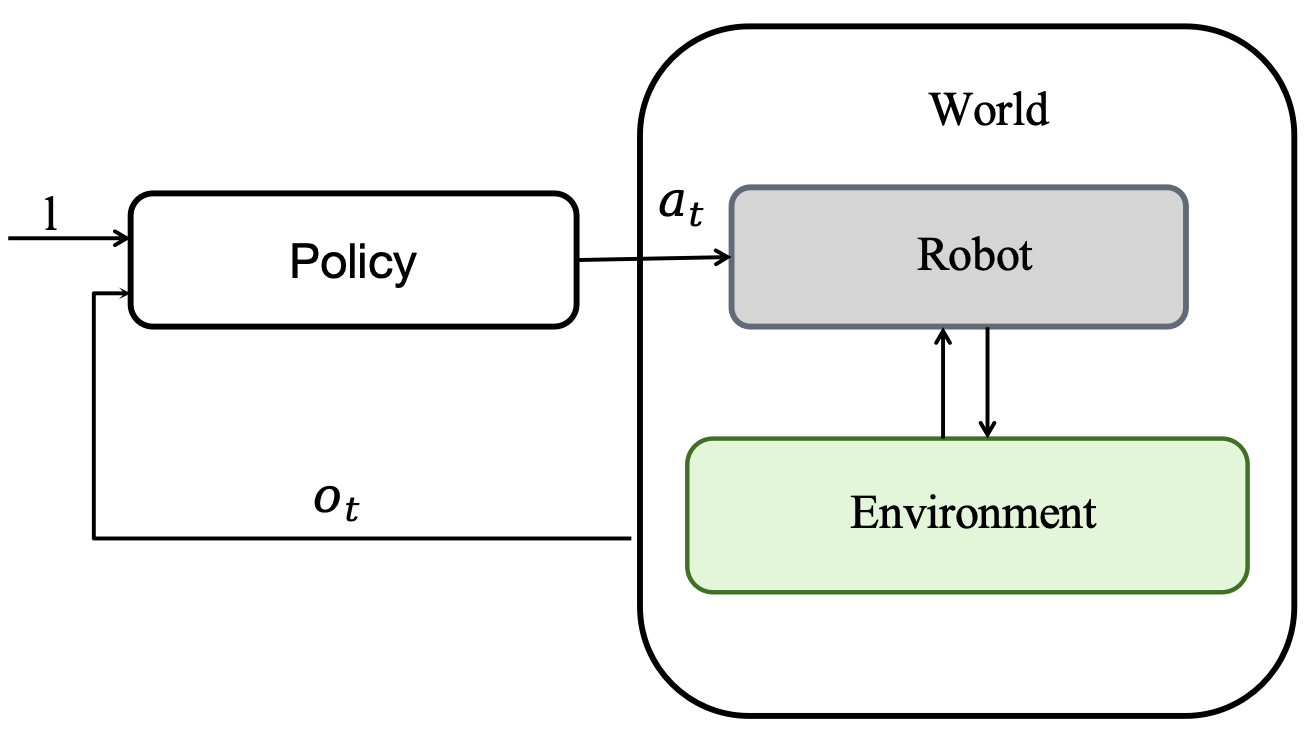
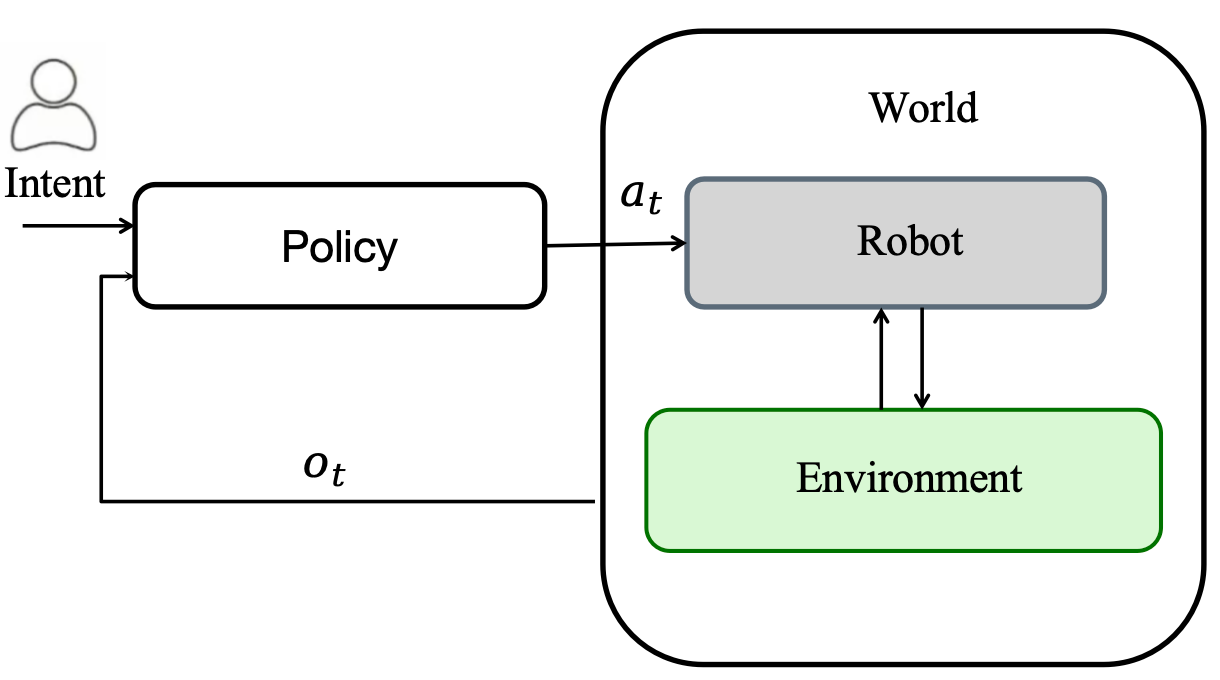
update website from overleaf figures (#36)

diff --git a/website/index.html b/website/index.html
@@ -6,9 +6,9 @@
     <title>From World Models to World Action Models: A Concise Tutorial for Robotics</title>
     <meta
       name="description"
-      content="A concise tutorial on world models and world action models for embodied AI and robotics."
+      content="A concise tutorial on world models and world action models for physical AI and robotics."
     >
-    <link rel="stylesheet" href="styles.css?v=20260706-4">
+    <link rel="stylesheet" href="styles.css?v=20260725">
   </head>
   <body>
     <header class="site-header">
@@ -33,12 +33,12 @@
           <p class="eyebrow">Survey and tutorial map</p>
           <div class="hero-title-block">
             <h1 id="hero-title">From World Models to World Action Models: A Concise Tutorial for Robotics</h1>
-            <p class="edited-date">Edited: July 13, 2026</p>
+            <p class="edited-date">Edited: July 25, 2026</p>
           </div>
           <p class="subtitle">
             A concise tutorial that builds from task-specific worlds and
-            embodied policies to predictive world models—and finally to models
-            that connect imagined futures with executable robot actions.
+            physical AI policies to predictive world models—and finally to
+            models that couple imagined futures with executable robot actions.
           </p>
           <div class="authors" aria-label="Authors and affiliations">
             <p>
@@ -61,10 +61,10 @@
           <h2 id="introduction-title">📘 Introduction</h2>
           <p>
             Predicting how the world evolves under actions is central to
-            embodied AI and generative simulation. A unified architecture makes
+            physical AI and generative simulation. A unified architecture makes
             clear what a model represents, what it predicts, and how its
-            predictions support control, planning, decision making, and policy
-            learning.
+            predictions support controller design, planning, decision making,
+            and policy learning.
           </p>
         </div>
 
@@ -75,16 +75,16 @@
               <div>
                 <h3>World</h3>
                 <p>
-                  The <em>world</em> is the set of all objects relevant to an
-                  embodied AI task. It consists of a <em>robot</em> and its
-                  <em>environment</em>; the environment contains both the
+                  The <em>world</em> is the set of task-relevant entities,
+                  including both the <em>robot</em> and its
+                  <em>environment</em>. The environment contains the
                   <em>objects of interest</em> and the ambient environment.
                 </p>
               </div>
             </div>
             <figure class="introduction-figure compact">
-              <a href="assets/world.pdf?v=20260713" aria-label="Open the components of a world figure as a PDF">
-                <img src="assets/world.png?v=20260713" alt="A world consists of a robot and an environment containing objects of interest and the ambient environment.">
+              <a href="assets/world.pdf?v=20260725" aria-label="Open the components of a world figure as a PDF">
+                <img src="assets/world.png?v=20260725" alt="A world consists of a robot and an environment containing objects of interest and the ambient environment.">
               </a>
               <figcaption>Figure 1. Components of a task-specific world.</figcaption>
             </figure>
@@ -94,43 +94,44 @@
             <div class="introduction-copy">
               <span class="step-number">02</span>
               <div>
-                <h3>Embodied AI Task and Policy</h3>
+                <h3>Physical AI Task and Policy</h3>
                 <p>
-                  A <em>world configuration</em> describes the robot and every
-                  object in its environment. An embodied AI task asks a policy
-                  to transform an initial configuration into a target one by
-                  controlling the robot. The exact world is therefore
-                  task-dependent.
+                  The <em>world state</em> is the joint task-relevant state of
+                  the robot, objects, other agents, and surrounding
+                  environment. A physical AI task asks a policy to drive the
+                  world from an initial state toward a goal set while satisfying
+                  task-specific constraints.
                 </p>
                 <p>
-                  Humanoid locomotion needs a robot and ground surface; robotic
-                  table cleaning additionally includes dishes, furniture, and
-                  the surrounding household environment.
+                  Autonomous driving includes the vehicle, traffic
+                  participants, and road environment; robotic table-cleaning
+                  includes the robot, dishes, rag, table, and household
+                  surroundings.
                 </p>
               </div>
             </div>
             <figure class="introduction-figure">
-              <a href="assets/two_tasks.pdf?v=20260713" aria-label="Open embodied AI task examples as a PDF">
-                <img src="assets/two_tasks.png?v=20260713" alt="Humanoid locomotion and robotic table-cleaning as two examples of task-specific worlds.">
+              <a href="assets/two_tasks.pdf?v=20260725" aria-label="Open physical AI task examples as a PDF">
+                <img src="assets/two_tasks.png?v=20260725" alt="Autonomous driving and robotic table-cleaning as two examples of physical AI tasks.">
               </a>
-              <figcaption>Figure 2. Two embodied AI tasks instantiate different worlds and target configurations.</figcaption>
+              <figcaption>Figure 2. Physical AI tasks: autonomous driving and robotic table-cleaning.</figcaption>
             </figure>
             <div class="policy-row">
               <div>
-                <h4>Policy in an embodied AI task</h4>
+                <h4>Policy framework for physical AI tasks</h4>
                 <p>
-                  At each step, a policy receives a language instruction
-                  <var>l</var> and current observation <var>o<sub>t</sub></var>,
-                  then outputs an action <var>a<sub>t</sub></var> to the robot.
-                  The policy may be a PID controller, an MPC, a
-                  vision-language-action model, or a world action model.
+                  A policy maps human intent <var>I</var> and the current
+                  observation <var>o<sub>t</sub></var> to a robot action
+                  <var>a<sub>t</sub></var>. It may be realized by a modular
+                  decision-planning-control pipeline, a fast-slow architecture,
+                  or an end-to-end policy.
                 </p>
               </div>
               <figure class="introduction-figure">
-                <a href="assets/policy_all.pdf?v=20260713" aria-label="Open the closed-loop policy framework as a PDF">
-                  <img src="assets/policy_all.png?v=20260713" alt="A language instruction and current world observation feed a policy that sends an action to the robot in a closed loop.">
+                <a href="assets/policy_all.pdf?v=20260725" aria-label="Open the closed-loop policy framework as a PDF">
+                  <img src="assets/policy_all.png?v=20260725" alt="Human intent and the current observation feed a policy that sends an action to the robot.">
                 </a>
-                <figcaption>Figure 3. A language-conditioned closed-loop policy framework.</figcaption>
+                <figcaption>Figure 3. A policy framework for accomplishing physical AI tasks.</figcaption>
               </figure>
             </div>
           </article>
@@ -156,32 +157,31 @@
                 </p>
               </div>
             </div>
-            <figure class="introduction-figure wide">
-              <a href="assets/world_model.pdf?v=20260713" aria-label="Open the world model architecture figure as a PDF">
-                <img src="assets/world_model.png?v=20260713" alt="A world model predicts future observations or states from observation history and an action.">
-              </a>
-              <figcaption>Figure 4. A world model predicts future observations or states from the current observation and action.</figcaption>
+            <figure class="introduction-figure wide model-comparison">
+              <div class="model-comparison-grid">
+                <a href="assets/world_model.pdf?v=20260725" aria-label="Open the world model architecture figure as a PDF">
+                  <img src="assets/world_model.png?v=20260725" alt="A world model predicts future observations or states from observation history and an action.">
+                </a>
+                <a href="assets/world_action_model.pdf?v=20260725" aria-label="Open the world action model architecture figure as a PDF">
+                  <img src="assets/world_action_model.png?v=20260725" alt="A world action model predicts future actions and optionally future observations from the current observation and current action.">
+                </a>
+              </div>
+              <figcaption>Figure 4. World (action) models.</figcaption>
             </figure>
             <figure class="introduction-figure wide">
-              <a href="assets/world_model_examples.pdf?v=20260713" aria-label="Open examples of world models as a PDF">
-                <img src="assets/world_model_examples.png?v=20260713" alt="Examples spanning symbolic, neural, and diffusion-based world models.">
+              <a href="assets/world_model_examples.pdf?v=20260725" aria-label="Open examples of world models as a PDF">
+                <img src="assets/world_model_examples.png?v=20260725" alt="Examples spanning symbolic, neural, and diffusion-based world models.">
               </a>
-              <figcaption>Figure 5. World models range from symbolic equations to neural dynamics and diffusion video predictors.</figcaption>
+              <figcaption>Figure 5. Examples of world models.</figcaption>
             </figure>
             <div class="wam-callout standalone">
               <p class="eyebrow">From prediction to action</p>
               <h4>World Action Model</h4>
-              <figure class="wam-callout-figure">
-                <a href="assets/world_action_model.pdf?v=20260713" aria-label="Open the world action model architecture figure as a PDF">
-                  <img src="assets/world_action_model.png?v=20260713" alt="A world action model predicts future actions and optionally future observations from the current observation and current action.">
-                </a>
-                <figcaption>Figure 6. A world action model predicts future actions (and observations) from the current observation and action.</figcaption>
-              </figure>
               <p>
-                A <em>world action model</em> is a policy in the embodied AI
-                framework above. It extends world modeling by explicitly
-                associating predicted future observations with the
-                actions that realize them.
+                A <em>world action model</em> is a policy whose action
+                generation is coupled, during training or inference, with a
+                model or representation of future world evolution. This
+                coupling may be explicit, latent, joint, or auxiliary.
               </p>
               <a class="text-link" href="#world-action-models">Explore the four WAM paradigms →</a>
             </div>
@@ -233,13 +233,13 @@
               </p>
             </div>
             <figure class="figure-panel large">
-              <a href="assets/obsWM.pdf?v=20260713">
+              <a href="assets/obsWM.pdf?v=20260725">
                 <img
-                  src="assets/obsWM.png?v=20260713"
+                  src="assets/obsWM.png?v=20260725"
                   alt="Design space of observation-space world models."
                 >
               </a>
-              <figcaption>Figure 7. Observation-space models organize future prediction by observation type and action abstraction.</figcaption>
+              <figcaption>Figure 6. Design space of observation-space world models.</figcaption>
             </figure>
           </article>
 
@@ -257,13 +257,13 @@
               </p>
             </div>
             <figure class="figure-panel large">
-              <a href="assets/stateWM.pdf?v=20260713">
+              <a href="assets/stateWM.pdf?v=20260725">
                 <img
-                  src="assets/stateWM.png?v=20260713"
+                  src="assets/stateWM.png?v=20260725"
                   alt="Design space of state-space world models."
                 >
               </a>
-              <figcaption>Figure 8. State-space models trade raw visual fidelity for compactness, structure, and physical meaning.</figcaption>
+              <figcaption>Figure 7. Design space of state-space world models.</figcaption>
             </figure>
           </article>
         </div>
@@ -274,21 +274,22 @@
           <p class="eyebrow">From future prediction to action</p>
           <h2 id="wam-title">🤖 World Action Models</h2>
           <p>
-            World action models bridge language-conditioned video prediction and
-            embodied control. Existing work differs in how explicitly it uses
-            imagined futures during policy inference.
+            World action models bridge future-oriented visual prediction and
+            physical decision making. Existing work differs in how explicitly
+            it represents future observations and how tightly those futures are
+            coupled with action generation.
           </p>
         </div>
 
         <figure class="wide-figure">
-          <a href="assets/wam.pdf?v=20260713">
+          <a href="assets/wam.pdf?v=20260725">
             <img
-              src="assets/wam.png?v=20260713"
+              src="assets/wam.png?v=20260725"
               alt="Taxonomy of world action model paradigms."
             >
           </a>
           <figcaption>
-            Figure 9. Four ways to couple visual future prediction with action generation.
+            Figure 8. Taxonomy of world action models.
           </figcaption>
         </figure>
 
@@ -469,6 +470,6 @@
       </p>
     </footer>
 
-    <script src="script.js"></script>
+    <script src="script.js?v=20260725"></script>
   </body>
 </html>

diff --git a/website/script.js b/website/script.js
@@ -16,31 +16,30 @@
     ".site-nav a[href='#citation']": "引用",
     "#overview .eyebrow": "综述与教程地图",
     "#hero-title": "从世界模型到世界动作模型：面向机器人学的简明教程",
-    ".edited-date": "编辑日期：2026 年 7 月 13 日",
-    ".subtitle": "本教程从任务特定世界和具身策略出发，逐步介绍预测式世界模型，并进一步讨论如何将想象出的未来与可执行机器人动作连接起来。",
+    ".edited-date": "编辑日期：2026 年 7 月 25 日",
+    ".subtitle": "本教程从任务特定世界和物理 AI 策略出发，逐步介绍预测式世界模型，并进一步讨论如何将想象出的未来与可执行机器人动作耦合起来。",
     ".authors p:last-child": "南方科技大学；LimX Dynamics",
     "#introduction .section-heading .eyebrow": "架构视角",
     "#introduction-title": "📘 引言",
-    "#introduction .section-heading p:not(.eyebrow)": "预测世界如何在动作下演化，是具身智能和生成式仿真的核心问题。统一的架构能够说明模型表示什么、预测什么，以及这些预测如何支持控制、规划、决策和策略学习。",
+    "#introduction .section-heading p:not(.eyebrow)": "预测世界如何在动作下演化，是物理 AI 和生成式仿真的核心问题。统一的架构能够说明模型表示什么、预测什么，以及这些预测如何支持控制器设计、规划、决策和策略学习。",
     ".introduction-block:nth-child(1) h3": "世界",
-    ".introduction-block:nth-child(1) .introduction-copy p": "<em>世界</em>是与具身 AI 任务相关的所有对象集合。它由<em>机器人</em>及其<em>环境</em>构成；环境中既包括<em>感兴趣对象</em>，也包括周围环境。",
+    ".introduction-block:nth-child(1) .introduction-copy p": "<em>世界</em>是任务相关实体的集合，包括<em>机器人</em>及其<em>环境</em>。环境中既包括<em>感兴趣对象</em>，也包括周围环境。",
     ".introduction-block:nth-child(1) figcaption": "图 1. 任务特定世界的组成部分。",
-    ".introduction-block:nth-child(2) h3": "具身 AI 任务与策略",
-    ".introduction-block:nth-child(2) .introduction-copy p:nth-of-type(1)": "<em>世界构型</em>描述机器人及其环境中每个对象的状态。具身 AI 任务要求策略通过控制机器人，将初始构型转化为目标构型。因此，具体的世界取决于任务。",
-    ".introduction-block:nth-child(2) .introduction-copy p:nth-of-type(2)": "人形机器人运动需要机器人和地面；机器人桌面清洁还需要包含餐具、家具以及周围的家庭环境。",
-    ".policy-row h4": "具身 AI 任务中的策略",
-    ".policy-row p": "在每一步中，策略接收语言指令 <var>l</var> 和当前观测 <var>o<sub>t</sub></var>，然后向机器人输出动作 <var>a<sub>t</sub></var>。该策略可以是 PID 控制器、MPC、视觉-语言-动作模型，或世界动作模型。",
-    ".policy-row figcaption": "图 3. 语言条件下的闭环策略框架。",
-    ".introduction-block:nth-child(2) > figure figcaption": "图 2. 两个具身 AI 任务实例化了不同的世界和目标构型。",
+    ".introduction-block:nth-child(2) h3": "物理 AI 任务与策略",
+    ".introduction-block:nth-child(2) .introduction-copy p:nth-of-type(1)": "<em>世界状态</em>是机器人、对象、其他智能体以及周围环境的联合任务相关状态。物理 AI 任务要求策略在满足任务约束的同时，将世界从初始状态驱动到目标集合。",
+    ".introduction-block:nth-child(2) .introduction-copy p:nth-of-type(2)": "自动驾驶任务包含车辆、交通参与者和道路环境；机器人桌面清洁任务包含机器人、餐具、抹布、桌面以及家庭周围环境。",
+    ".policy-row h4": "物理 AI 任务的策略框架",
+    ".policy-row p": "策略将人类意图 <var>I</var> 和当前观测 <var>o<sub>t</sub></var> 映射为机器人动作 <var>a<sub>t</sub></var>。它可以由模块化的决策-规划-控制流水线、快慢系统架构，或端到端策略实现。",
+    ".policy-row figcaption": "图 3. 用于完成物理 AI 任务的策略框架。",
+    ".introduction-block:nth-child(2) > figure figcaption": "图 2. 物理 AI 任务：自动驾驶和机器人桌面清洁。",
     ".introduction-block:nth-child(3) h3": "世界模型与世界动作模型",
     ".introduction-block:nth-child(3) .introduction-copy p:nth-of-type(1)": "对于给定世界，<em>世界模型</em>预测未来观测 <var>o<sub>t+1</sub></var> 或状态 <var>x<sub>t+1</sub></var> 如何在动作 <var>a<sub>t</sub></var> 下演化，通常以当前观测 <var>o<sub>t</sub></var> 为条件。",
     ".introduction-block:nth-child(3) .introduction-copy p:nth-of-type(2)": "该模型可以是符号动力学方程、神经动力学模型，或基于扩散的视频预测器。观测可以是 RGB 或 RGB-D 图像、点云或本体状态；预测状态可以是物体位姿、关键点、潜变量状态，或其他任务相关变量。",
-    ".introduction-block:nth-child(3) > figure:nth-of-type(1) figcaption": "图 4. 世界模型根据当前观测和动作预测未来观测或状态。",
-    ".introduction-block:nth-child(3) > figure:nth-of-type(2) figcaption": "图 5. 世界模型涵盖从符号方程、神经动力学到扩散视频预测器的多种形式。",
+    ".introduction-block:nth-child(3) > figure:nth-of-type(1) figcaption": "图 4. 世界（动作）模型。",
+    ".introduction-block:nth-child(3) > figure:nth-of-type(2) figcaption": "图 5. 世界模型示例。",
     ".wam-callout .eyebrow": "从预测到动作",
     ".wam-callout h4": "世界动作模型",
-    ".wam-callout figcaption": "图 6. 世界动作模型根据当前观测和动作预测未来动作（以及观测）。",
-    ".wam-callout p:not(.eyebrow)": "<em>世界动作模型</em>是上述具身 AI 框架中的一种策略。它将世界建模进一步扩展为：显式地把预测到的未来观测与能够实现这些未来的动作关联起来。",
+    ".wam-callout p:not(.eyebrow)": "<em>世界动作模型</em>是一类策略，其动作生成在训练或推理阶段与未来世界演化的模型或表示相耦合。这种耦合可以是显式的、潜在的、联合的或辅助的。",
     ".wam-callout .text-link": "查看四类 WAM 范式 →",
     "#design-space .section-heading .eyebrow": "预测建模选择",
     "#design-title": "🧭 世界模型设计空间",
@@ -52,15 +51,15 @@
     ".design-feature:nth-child(1) .taxonomy-title": "🔮 观测空间世界模型",
     ".design-feature:nth-child(1) .taxonomy-caption": "分类标准：观测显式性与动作抽象程度。",
     ".design-feature:nth-child(1) .taxonomy-subheading p:not(.taxonomy-caption)": "对于观测空间世界模型，我们根据模型生成何种未来观测，以及条件动作如何表示，对已有方法进行分类。这形成了一个双轴设计空间。",
-    ".design-feature:nth-child(1) figcaption": "图 7. 观测空间模型根据观测类型和动作抽象程度组织未来预测。",
+    ".design-feature:nth-child(1) figcaption": "图 6. 观测空间世界模型设计空间。",
     ".design-feature:nth-child(2) .taxonomy-title": "🧩 状态空间世界模型",
     ".design-feature:nth-child(2) .taxonomy-caption": "分类标准：用于预测的状态表示。",
     ".design-feature:nth-child(2) .taxonomy-subheading p:not(.taxonomy-caption)": "对于状态空间世界模型，我们根据用于中介预测过程的状态表示来分类。关键问题是：在进行动力学建模之前，模型从观测中保留了哪些信息？",
-    ".design-feature:nth-child(2) figcaption": "图 8. 状态空间模型在原始视觉保真度、紧凑性、结构性和物理意义之间进行权衡。",
+    ".design-feature:nth-child(2) figcaption": "图 7. 状态空间世界模型设计空间。",
     "#world-action-models .section-heading .eyebrow": "从未来预测到动作",
     "#wam-title": "🤖 世界动作模型",
-    "#world-action-models .section-heading p:not(.eyebrow)": "世界动作模型连接语言条件下的视频预测与具身控制。现有工作的差异主要在于：在策略推理过程中，它们多大程度上显式使用想象出的未来。",
-    "#world-action-models figcaption": "图 9. 将视觉未来预测与动作生成耦合的四种方式。",
+    "#world-action-models .section-heading p:not(.eyebrow)": "世界动作模型连接面向未来的视觉预测与物理决策。现有工作的差异主要在于：它们如何显式表示未来观测，以及这些未来与动作生成耦合得有多紧密。",
+    "#world-action-models figcaption": "图 8. 世界动作模型分类体系。",
     ".paradigm-card:nth-child(1) .tag": "显式规划",
     ".paradigm-card:nth-child(1) h3": "Imagine-then-execute：先想象，再执行",
     ".paradigm-card:nth-child(1) p": "首先生成视觉子目标或未来 rollout，然后使用逆动力学、位姿估计、光流或目标条件策略来生成可执行动作。",

diff --git a/website/styles.css b/website/styles.css
@@ -474,6 +474,37 @@ figcaption {
   width: min(100%, 760px);
 }
 
+.model-comparison {
+  width: min(100%, 860px);
+}
+
+.model-comparison-grid {
+  display: grid;
+  grid-template-columns: repeat(2, minmax(0, 1fr));
+  gap: clamp(14px, 3vw, 28px);
+  align-items: stretch;
+  padding: clamp(10px, 2vw, 18px);
+  background: #ffffff;
+}
+
+.model-comparison-grid a {
+  display: flex;
+  align-items: center;
+  justify-content: center;
+  min-width: 0;
+  min-height: clamp(150px, 18vw, 210px);
+}
+
+.model-comparison-grid img {
+  width: 100%;
+  height: clamp(140px, 17vw, 200px);
+  object-fit: contain;
+}
+
+.model-comparison-grid a:nth-child(2) img {
+  width: 84%;
+}
+
 .policy-row,
 .examples-row {
   display: grid;
@@ -926,6 +957,23 @@ figcaption {
   .policy-row,
   .examples-row {
     grid-template-columns: 1fr;
+  }
+
+  .model-comparison-grid {
+    gap: 10px;
+    padding: 10px;
+  }
+
+  .model-comparison-grid a {
+    min-height: clamp(110px, 24vw, 150px);
+  }
+
+  .model-comparison-grid img {
+    height: clamp(100px, 23vw, 140px);
+  }
+
+  .model-comparison-grid a:nth-child(2) img {
+    width: 82%;
   }
 
   .introduction-copy {

diff --git a/tests/check_website.py b/tests/check_website.py
@@ -175,7 +175,7 @@ def main():
         "Xiong Zeng",
         "A concise tutorial that builds from task-specific worlds",
         "📘 Introduction",
-        "Embodied AI Task and Policy",
+        "Physical AI Task and Policy",
         "World Models and World Action Models",
         "🧭 World Model Design Space",
         "🔮 Observation-Space World Models",
